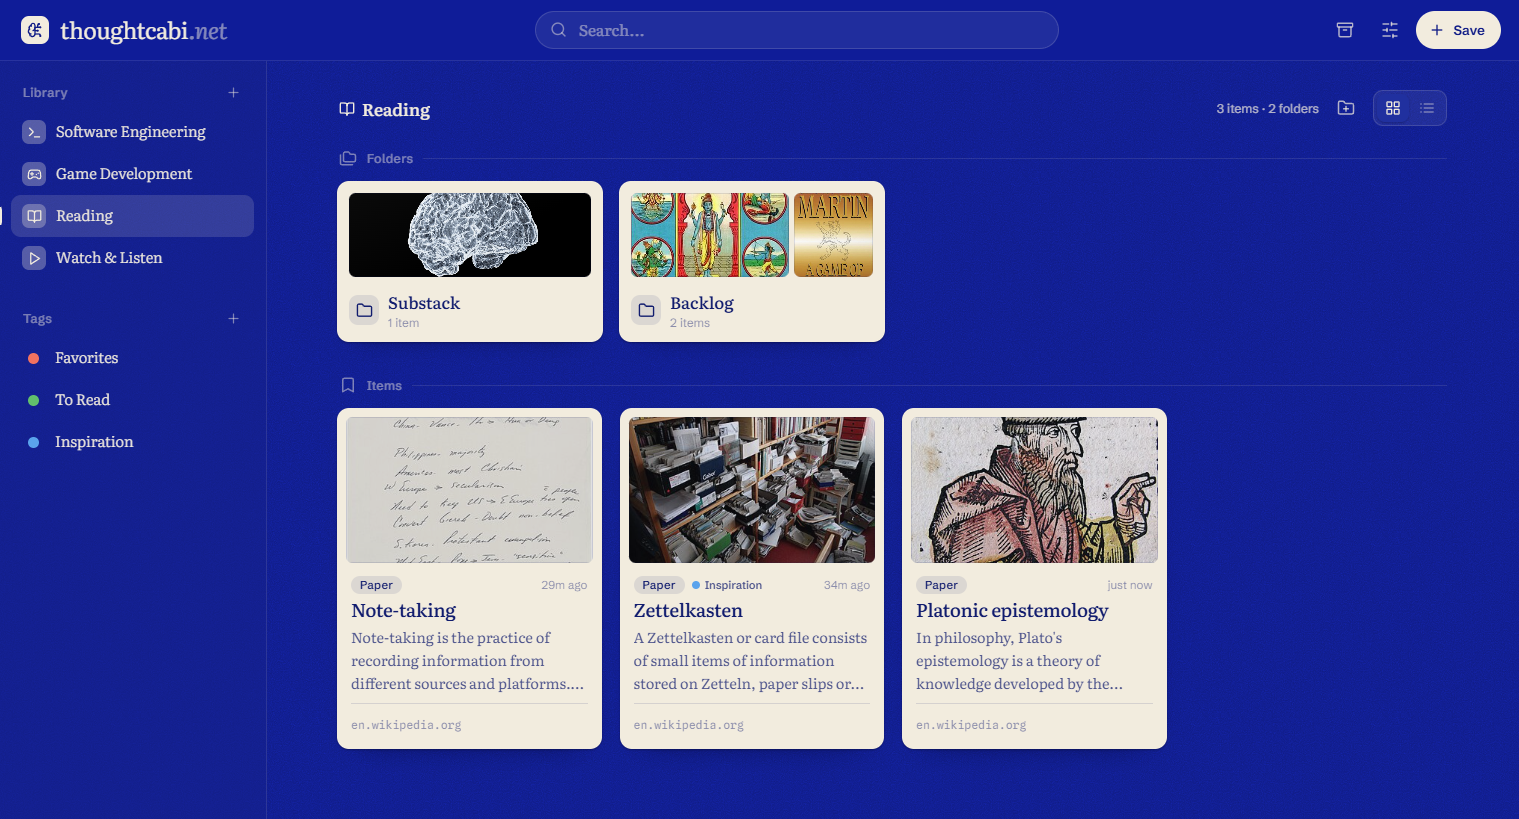
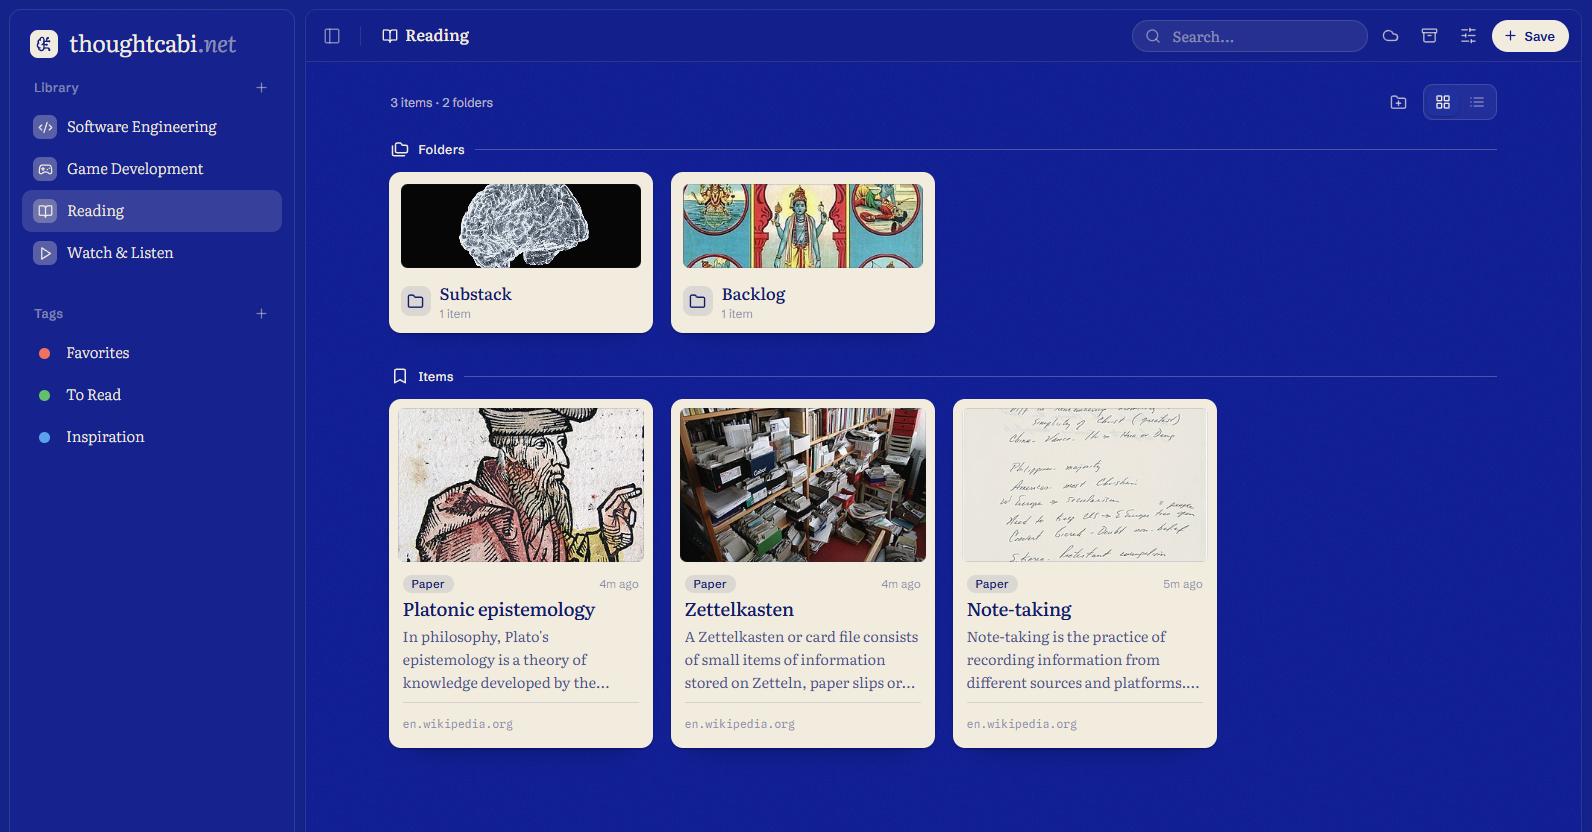
readme renovado :art:

diff --git a/README.md b/README.md
@@ -37,7 +37,7 @@
 
 **Export and import.** Export writes a single JSON file holding every shelf, folder, card and tag. Import takes it back and shows you what is inside before it touches anything: merge pours it into what you have, replace swaps the lot.
 
-**Somewhere of your own to keep it.** Point the cabinet at a folder on this computer, the one your sync app already watches, at a GitHub repository, or at your Google Drive, and it keeps itself there as that same JSON file. Open the app on another machine, point it at the same place, and both sides merge: cards arrive with the same small pop as a card you just saved, and it only asks you a question when there is one only you can answer. One place is the home and syncs both ways; anything else you add is a backup that only ever receives. The app never sends the cabinet anywhere you did not choose, and with nothing connected there is nothing to send.
+**Somewhere of your own to keep it.** Point the cabinet at a folder on this computer, the one your sync app already watches, at a GitHub repository, or at your Google Drive, and it keeps itself there as that same JSON file.
 
 ## Keyboard and gestures
 
@@ -68,16 +68,6 @@ React 18, TypeScript, Vite. Nothing to start on the side, though `node relay/ser
 - [x] Spanish translation
 - [x] External storage. Keep one cabinet in a place you own, and open it from any machine
 - [ ] More shades of blue. The four currently in the app are cleared by the Moralintern for civilian use; anything deeper is still before the Commission, and the greens were a concession.
-
-## Where your cabinet lives
-
-In your browser, in `localStorage`, and nowhere else until you say otherwise.
-
-Connect a place and the cabinet also lives there, in the open, as one readable JSON file you can copy, read or drop back into the import box. A folder never touches a network at all. GitHub takes a fine grained token you make yourself, scoped to that one repository, and it is stored in this browser so sync survives a reload; Disconnect forgets it, and you delete it on github.com. Which repository is entirely yours to pick: private, public, yours, an organisation's.
-
-A WebDAV server of your own, Nextcloud or Synology or `rclone serve webdav`, works the same way and goes straight from your browser to your machine, with an app password rather than your account password. The one thing it needs from you is CORS: your server has to say that this page may reach it, and `RELAY.md` §8 has the six headers. Nothing about it is proxied through us, because the alternative would mean your cabinet and your password passing through a box we run.
-
-Nothing third party ever runs on the page. No analytics, no accounts, no vendor SDK, and nothing in the `<head>` points at another origin.
 
 ## Contributing
 
